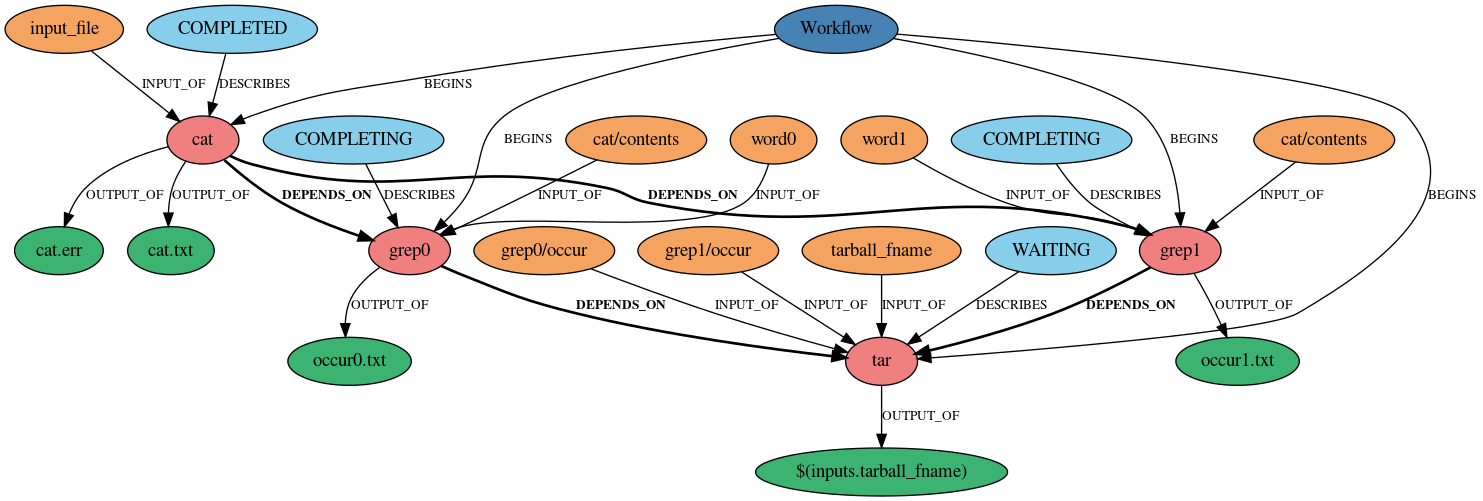
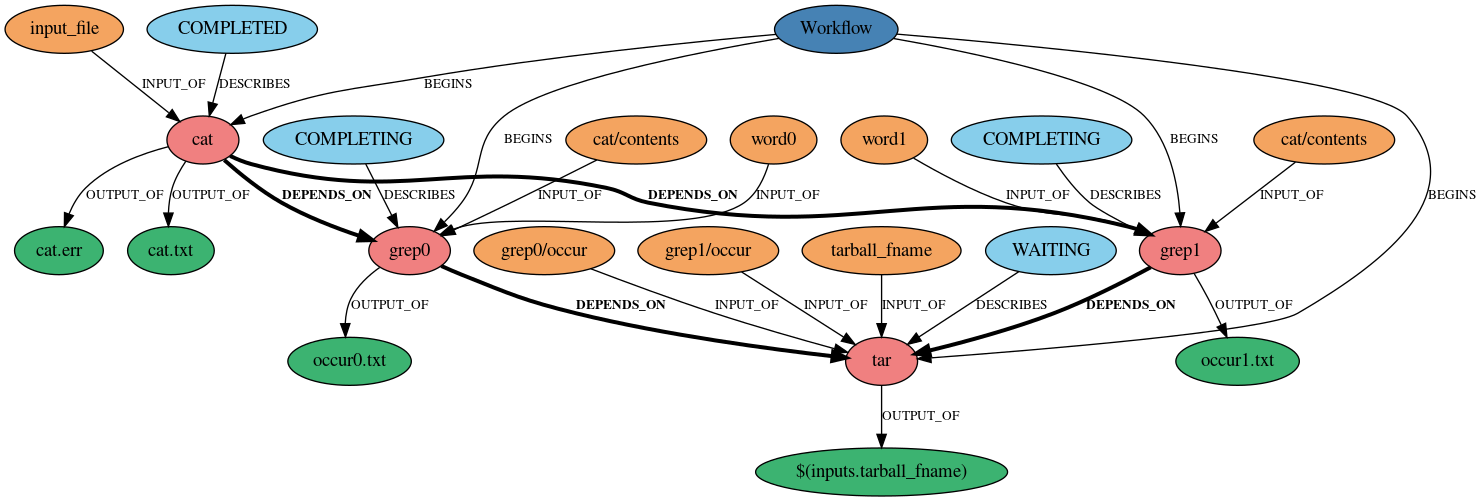
made depends_on arrows and restarted_from arrows thickness 3

diff --git a/beeflow/common/gdb/generate_graph.py b/beeflow/common/gdb/generate_graph.py
@@ -77,8 +77,8 @@ def add_edges_to_dot(graph, dot):
         edge_label = attributes.get('label', '')
         if edge_label in ('INPUT_OF', 'DESCRIBES', 'HINT_OF', 'REQUIREMENT_OF'):
             dot.edge(source, target, label=edge_label, fontsize="10")
-        elif edge_label == 'DEPENDS_ON':
-            dot.edge(target, source, label=edge_label, penwidth="2",
+        elif edge_label in ('DEPENDS_ON', 'RESTARTED_FROM'):
+            dot.edge(target, source, label=edge_label, penwidth="3",
                      fontsize="10", fontname="times-bold")
         else:
             dot.edge(target, source, label=edge_label, fontsize="10")
